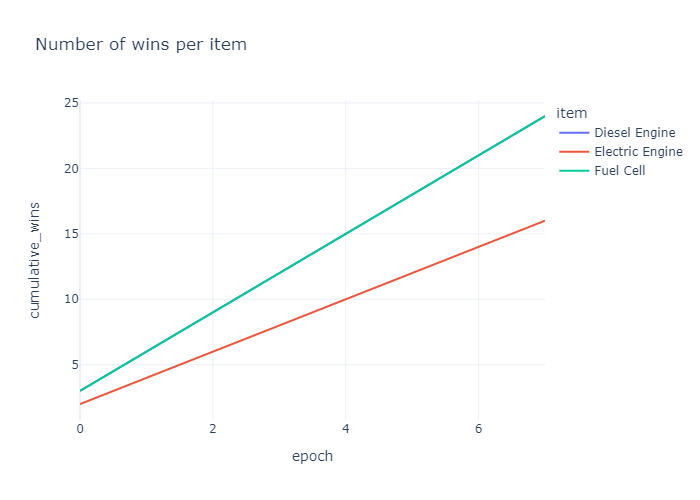
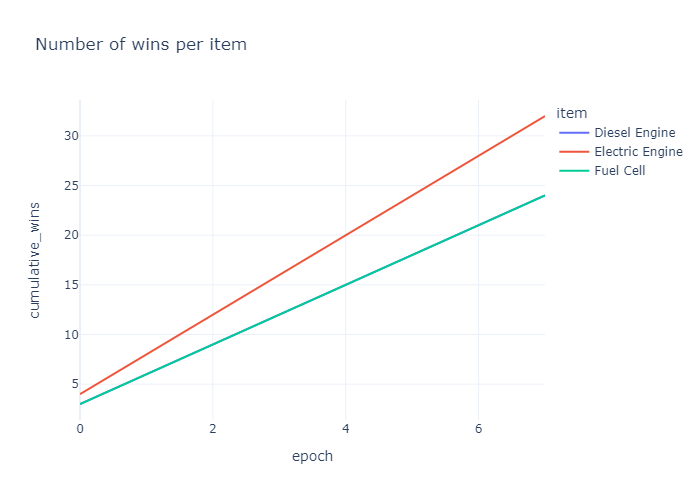
chore: updated graphs

diff --git a/pwArgumentAgentBatch.py b/pwArgumentAgentBatch.py
@@ -20,18 +20,18 @@ item_names = [
 
 agents_couple = ([(a1,a2) for a1, a2 in product(player_names, player_names) if a1 != a2])
 
-# if os.path.exists("figures/results.csv"):
-#     os.remove("figures/results.csv")
-# file = open("figures/results.csv", "w")
-# file.write("agent1,agent2,iswin,item\n")
-# file.close()
-# for epoch in tqdm(range(8)):
-#     for first, second in agents_couple:
-#         os.system(f"python pwArgumentAgent.py {first} {second}")
+if os.path.exists("figures/results.csv"):
+    os.remove("figures/results.csv")
+file = open("figures/results.csv", "w")
+file.write("agent1,agent2,iswin,item\n")
+file.close()
+for epoch in tqdm(range(8)):
+    for first, second in agents_couple:
+        os.system(f"python pwArgumentAgent.py {first} {second}")
 
 
 results = pd.read_csv('figures/results.csv')
-results["epoch"] = [i // 10 for i in range(len(results))]
+results["epoch"] = [i // 12 for i in range(len(results))]
 
 df = pd.DataFrame()
 for agent in player_names:
